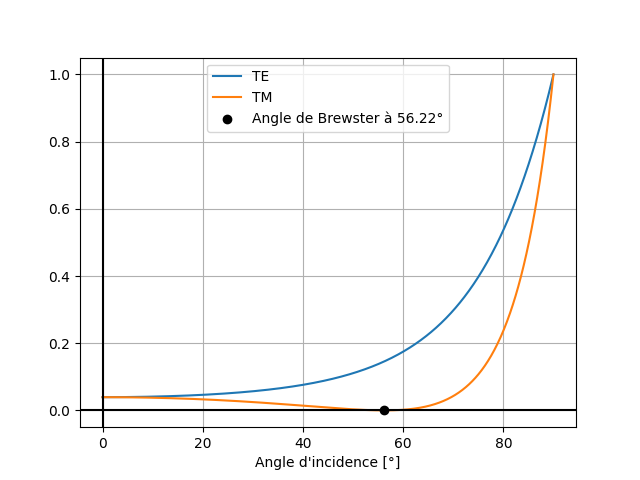
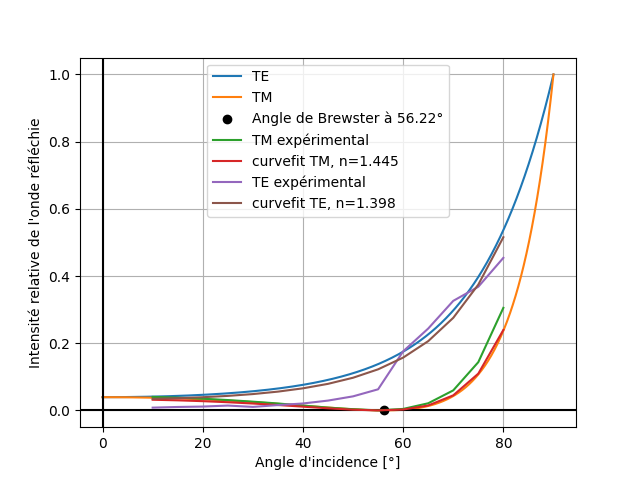
added experimental results and curvefitting

diff --git a/tpop/polarisation.py b/tpop/polarisation.py
@@ -38,27 +38,44 @@ figBrewster.savefig("brewster")
 
 
 n1 = 1
-n2 = 1.495
+# n2 = 1.495
 
-def cosTheta2(theta1):
+def cosTheta2(theta1, n2):
     return np.sqrt(1-(n1/n2*np.sin(theta1))**2)
 
-def rs(theta1):
-    return ((n1*np.cos(theta1)-n2*cosTheta2(theta1))/(n1*np.cos(theta1)+n2*cosTheta2(theta1)))**2
+def rs(theta1, n2):
+    return ((n1*np.cos(theta1)-n2*cosTheta2(theta1, n2))/(n1*np.cos(theta1)+n2*cosTheta2(theta1, n2)))**2
 
-def rp(theta1):
-    return ((n1*cosTheta2(theta1)-n2*np.cos(theta1))/(n1*cosTheta2(theta1)+n2*np.cos(theta1)))**2
+def rp(theta1, n2):
+    return ((n1*cosTheta2(theta1, n2)-n2*np.cos(theta1))/(n1*cosTheta2(theta1, n2)+n2*np.cos(theta1)))**2
 
 x = np.linspace(0, np.pi/2, 1000)
 
 coefRef, ref = mpl.subplots(1)
-ref.plot(np.degrees(x), rs(x), label="TE")
-ref.plot(np.degrees(x), rp(x), label="TM")
+ref.plot(np.degrees(x), rs(x, 1.495), label="TE")
+ref.plot(np.degrees(x), rp(x, 1.495), label="TM")
 ref.set_xlabel(f"Angle d'incidence [{degreeSign}]")
+ref.set_ylabel("Intensité relative de l'onde réfléchie")
 ref.plot(angle, 0, 'ko', label=f"Angle de Brewster à {angle:.2f}{degreeSign}")
 ref.axhline(y=0, color='k')
 ref.axvline(x=0, color='k')
 ref.grid()
+
+"""Results"""
+deg = np.arange(10, 85, 5)
+deg = np.radians(deg)
+tm = np.array([20.1, 19, 17.4, 15.4, 13, 10.3, 7.2, 4.1, 1.8, 0.05, 2.2, 10.6, 29.8, 71.8, 152.6])
+tm /= 500
+te = np.array([4.1, 5.1, 5.7, 7.2, 5.2, 7.9, 10.3, 14.6, 20.9, 31.4, 87.9, 121.8, 163, 184, 227])
+te /= 500
+
+popt, pcov = curve_fit(rp, deg, tm, p0=[2])
+popt2, pcov2 = curve_fit(rs, deg, te, p0=[2])
+
+ref.plot(np.degrees(deg), tm, label="TM expérimental")
+ref.plot(np.degrees(deg), rp(deg, *popt), label=f"curvefit TM, n={popt[0]:.3f}")
+ref.plot(np.degrees(deg), te, label="TE expérimental")
+ref.plot(np.degrees(deg), rs(deg, *popt), label=f"curvefit TE, n={popt2[0]:.3f}")
 ref.legend()
 coefRef.savefig("coefficientReflexion")
 
